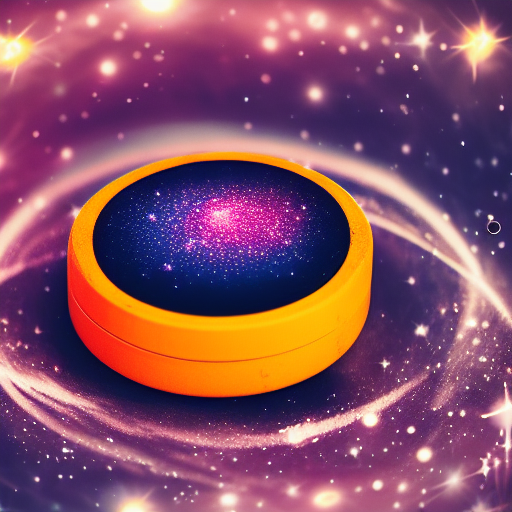
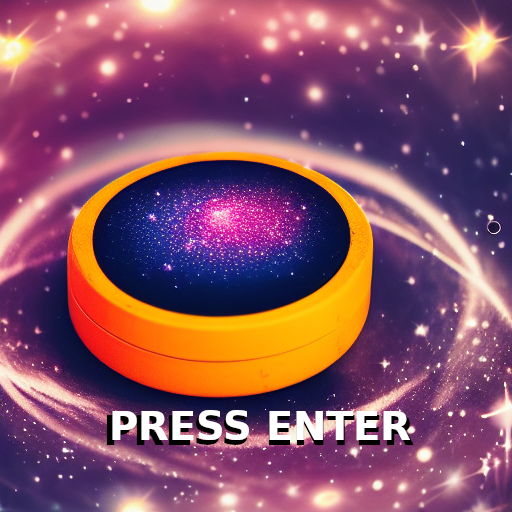
Intro hangs until enter is pressed

Changed region(s): [[0.1875, 0.7812, 0.8125, 0.875]]

diff --git a/bship.cpp b/bship.cpp
@@ -25,7 +25,7 @@
 #include "amartinez2.h"
 #include "tbrown.h"
 
-extern void help_screen();
+//extern void help_screen();
 //macros
 #define rnd() (double)rand()/(double)RAND_MAX
 //prototypes
@@ -74,7 +74,6 @@ class Global {
 	public:
 		unsigned int help;
 		unsigned int pause;
-        int intro_counter = 200;
         int intro_screen = 1;
 		Global(){
 			help = 0;
@@ -563,6 +562,9 @@ void check_keys(XEvent *e)
 				gamemode = MODE_READY;
 			}
 			break;
+        case XK_Return:
+            gl.intro_screen = 0;
+            break;
 	}
 }
 
@@ -870,9 +872,7 @@ void render(void)
 	glColor3f(0.8f, 0.6f, 0.2f);
 	//Show intro screen
     if (gl.intro_screen) {
-            gl.intro_counter += show_intro_screen(introTexture, xres, yres);
-            if (gl.intro_counter < 0)
-                    gl.intro_screen = 0;
+        show_intro_screen(introTexture, xres, yres);
     }
 	//show screen background...
     else {

diff --git a/tbrown.cpp b/tbrown.cpp
@@ -2,7 +2,7 @@
 #include <GL/glx.h>
 #include "tbrown.h"
 #include <iostream>
-extern int show_intro_screen(GLuint introTexture, int xres, int yres)
+extern void show_intro_screen(GLuint introTexture, int xres, int yres)
 {
         // Renders intro image onto screen
 
@@ -15,6 +15,4 @@ extern int show_intro_screen(GLuint introTexture, int xres, int yres)
             glTexCoord2f(1.0f, 1.0f);   glVertex2i(xres, 0);
         glEnd();
         glBindTexture(GL_TEXTURE_2D, 0);
-        // Returns -1 to decrement intro_counter
-        return -1;
 }

diff --git a/tbrown.h b/tbrown.h
@@ -1,3 +1,3 @@
 // Header file for Tyler Brown
 
-extern int show_intro_screen(GLuint introTexture, int xres, int yres);
+extern void show_intro_screen(GLuint introTexture, int xres, int yres);
